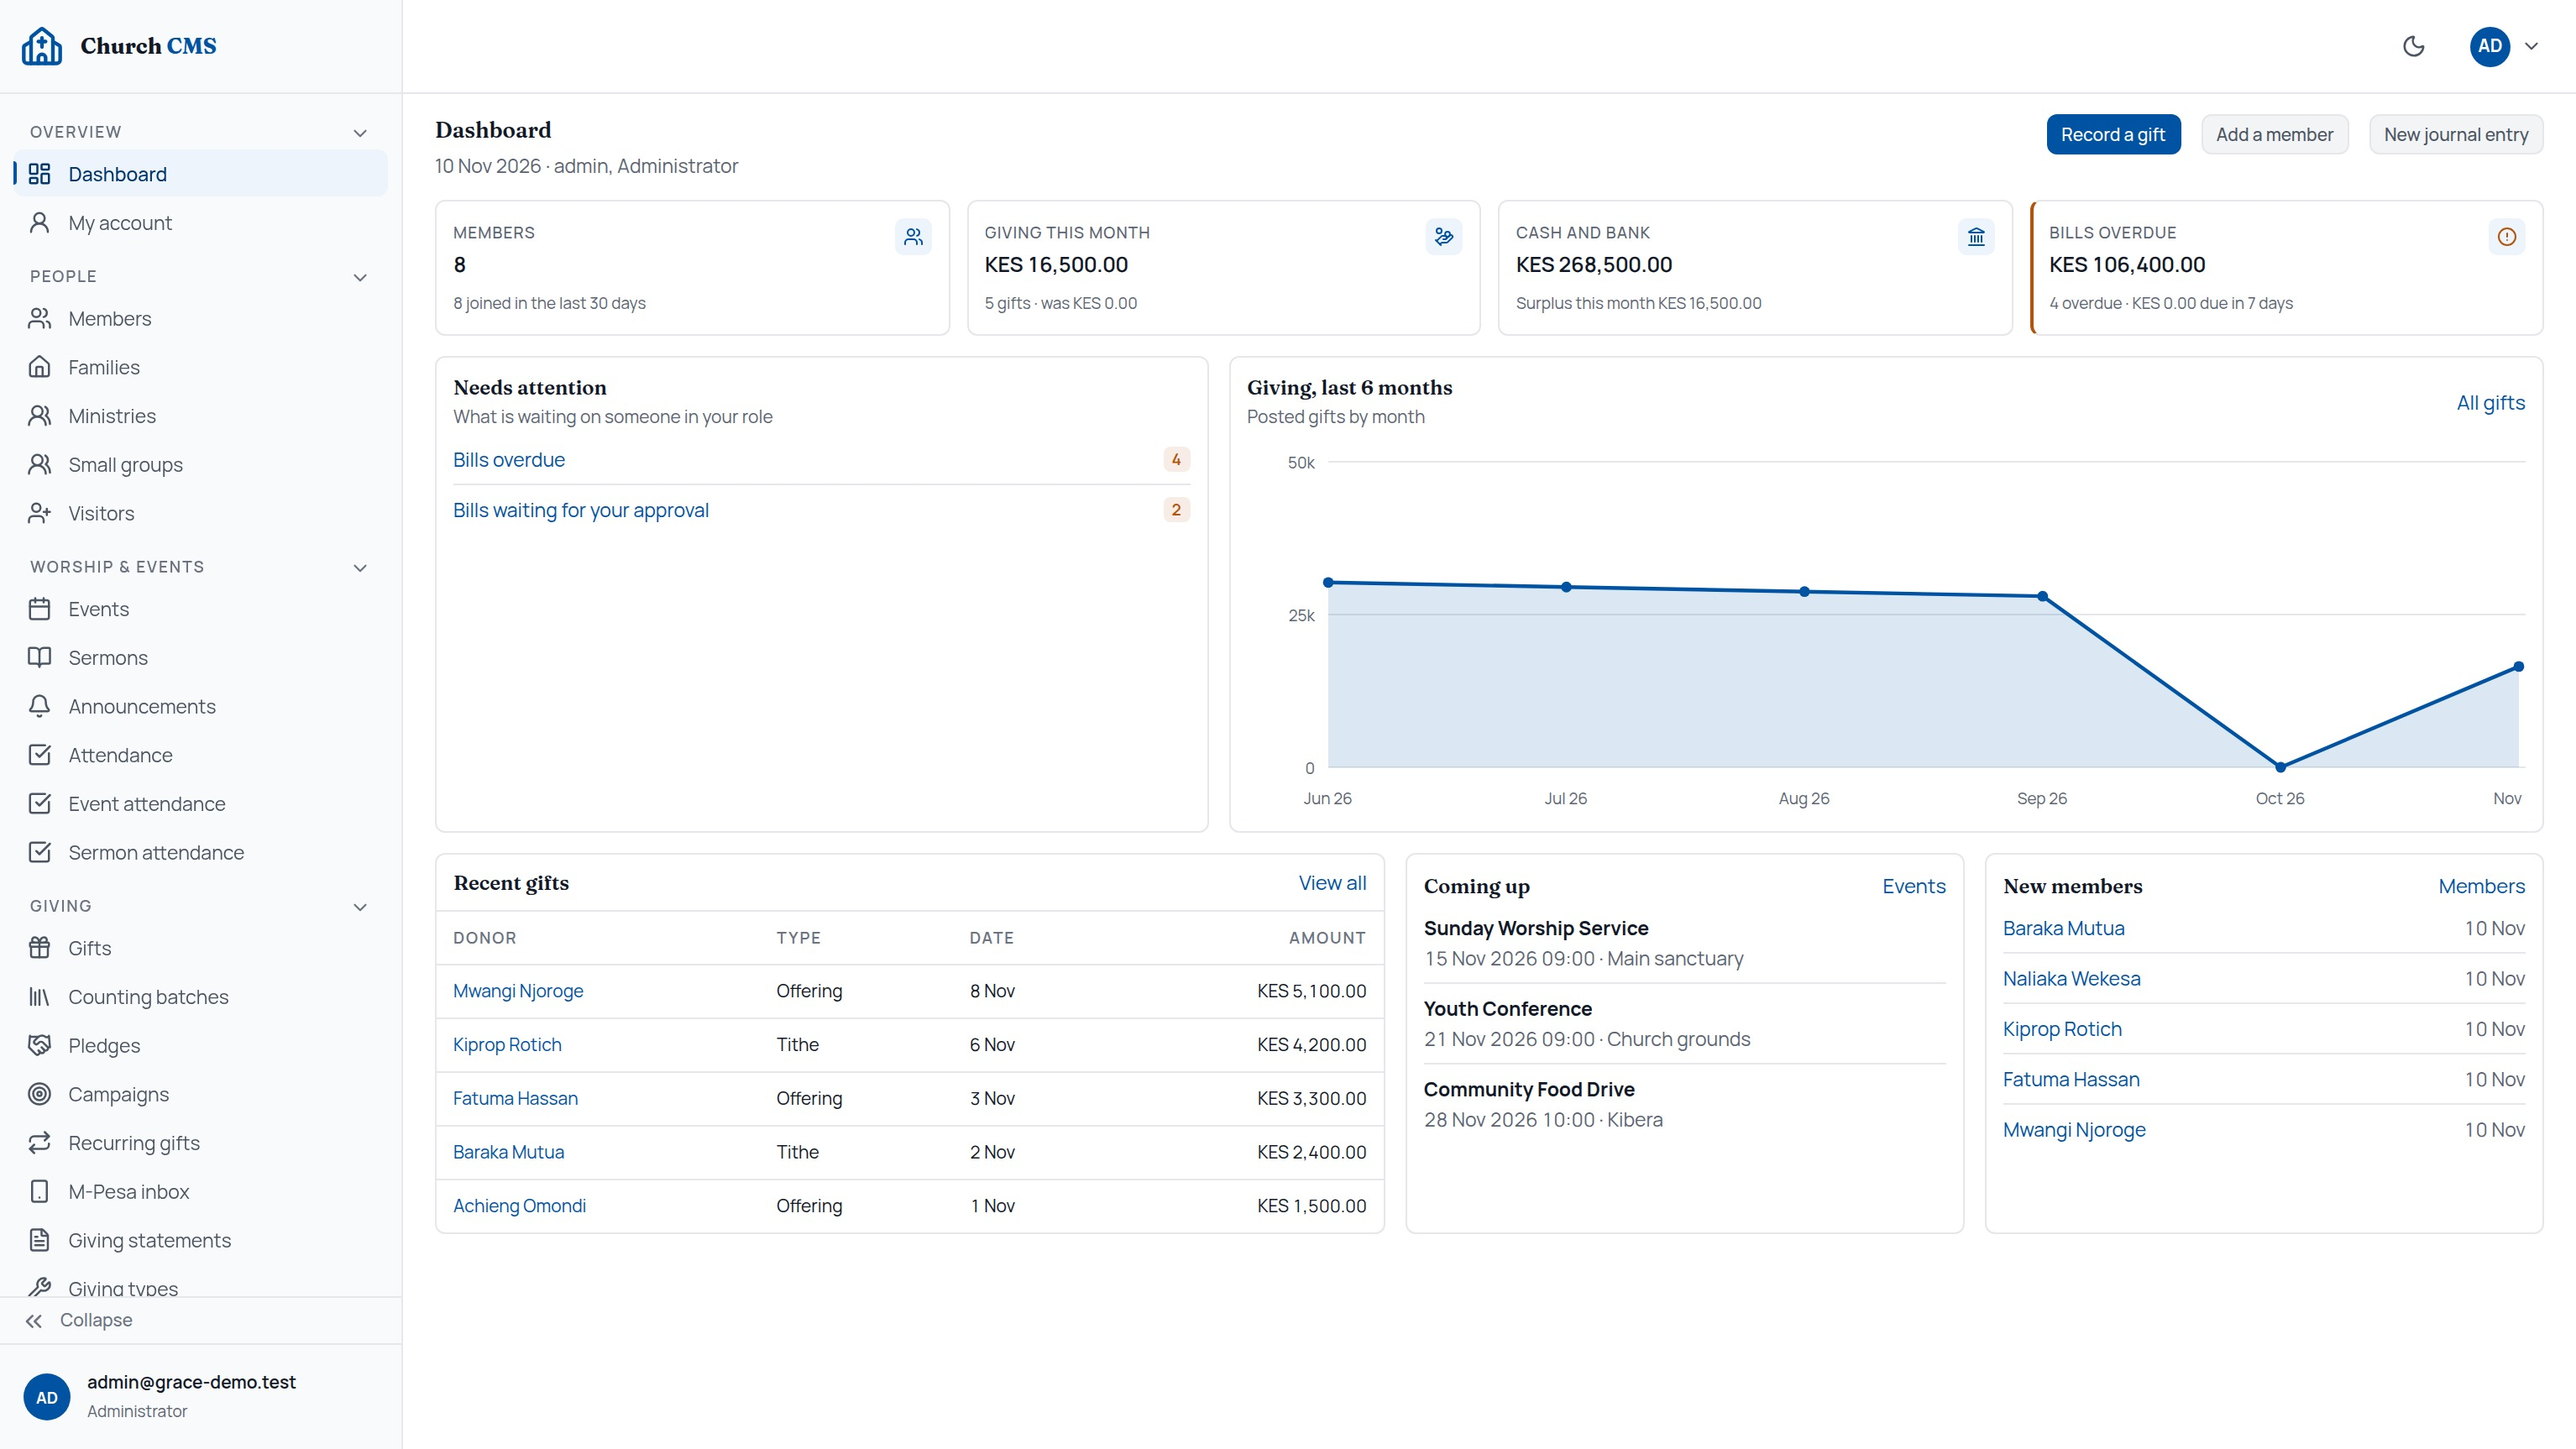
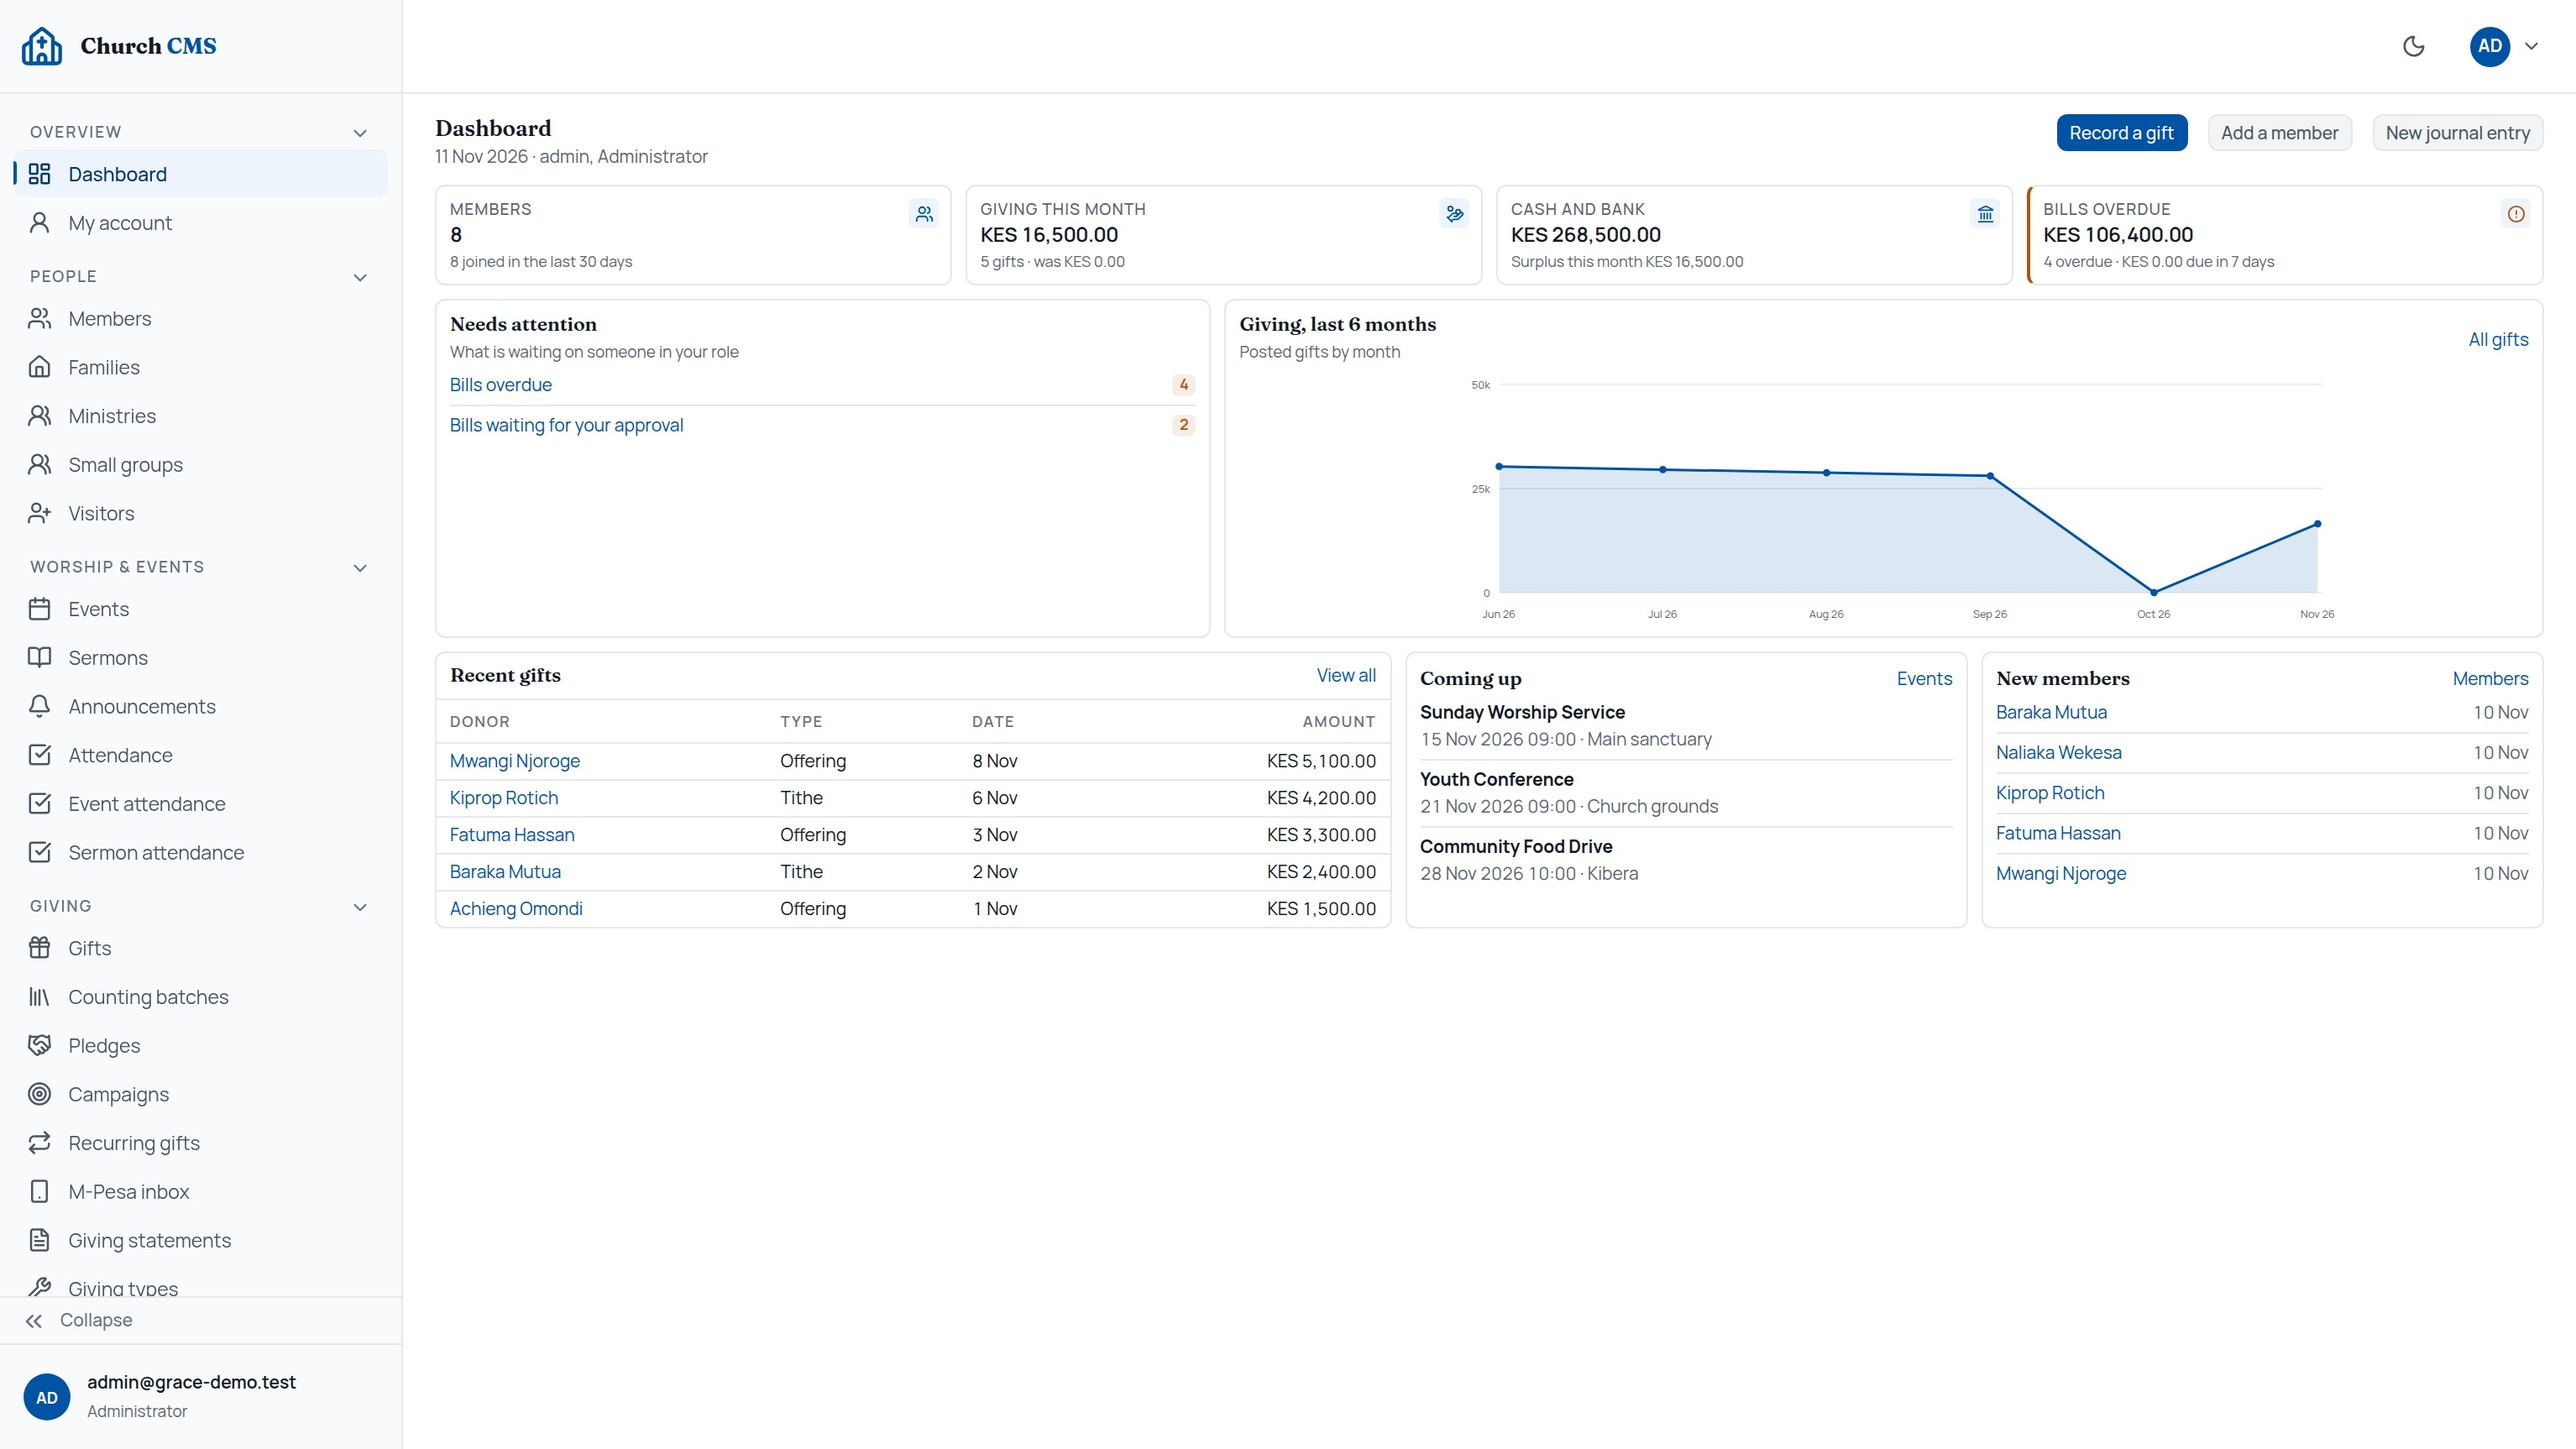
CMS dashboard: compact stat cards, tables, lists and spacing (dashboard only); refreshed dashboard screenshots

diff --git a/projects/cms/cms_frontend/src/ui/ui.css b/projects/cms/cms_frontend/src/ui/ui.css
@@ -374,3 +374,32 @@ textarea.ui-input { resize: vertical; height: auto; min-height: 60px; padding: 6
 .login-card { width: 100%; }
 .login-title { font-family: var(--ui-font-head); font-size: var(--fs-lg); font-weight: 600; margin: 0 0 3px; color: var(--c-ink); }
 .login-sub { margin: 0 0 12px; color: var(--ui-muted); font-size: var(--fs-sm); }
+
+/* ---- dashboard only: tighter than the shared kit, at or below SmartRE's dashboard values ---- */
+.ui-page.dash-page { gap: 8px; }
+.dash-page .ui-page-title { font-size: var(--fs-lg); line-height: 16px; }
+.dash-page .ui-page-sub { margin-top: 1px; font-size: var(--fs-xs); }
+.dash-page .ui-actions .ui-btn { height: 22px; padding: 0 7px; font-size: var(--fs-xs); }
+.dash-page .dash-tiles, .dash-page .dash-two, .dash-page .dash-three { gap: 8px; }
+.dash-page .ui-tile { padding: 7px 8px; }
+.dash-page .ui-tile-label { font-size: var(--fs-2xs); line-height: 13px; margin-bottom: 1px; padding-right: 24px; }
+.dash-page .ui-tile-value { font-size: 12px; line-height: 16px; }
+.dash-page .ui-tile-foot { margin-top: 2px; font-size: 9px; line-height: 12px; }
+.dash-page .ui-tile-icon { top: 7px; right: 7px; width: 18px; height: 18px; border-radius: 4px; }
+.dash-page .ui-tile-icon svg { width: 11px; height: 11px; }
+.dash-page .ui-card { padding: 7px 8px; }
+.dash-page .ui-card.is-flush { padding: 0; }
+.dash-page .ui-card-head { margin-bottom: 4px; }
+.dash-page .ui-card.is-flush > .ui-card-head { padding: 5px 8px; margin-bottom: 0; }
+.dash-page .ui-card-title { font-size: var(--fs-sm); line-height: 15px; }
+.dash-page .ui-card-sub { font-size: var(--fs-2xs); margin-top: 0; }
+.dash-page .ui-card-head a { font-size: var(--fs-xs); }
+.dash-page .ui-table th { padding: 4px 8px; font-size: 9px; }
+.dash-page .ui-table td { padding: 3px 8px; font-size: var(--fs-xs); line-height: 15px; }
+.dash-page .dash-list li { padding: 4px 0; font-size: var(--fs-xs); line-height: 15px; }
+.dash-page .dash-list li:first-child { padding-top: 0; }
+.dash-page .dash-list li:last-child { padding-bottom: 0; }
+.dash-page .dash-muted { font-size: var(--fs-xs); }
+.dash-page .ui-chart { max-height: 150px; }
+.dash-page .ui-badge { font-size: 9px; padding: 0 4px; }
+@media (max-width: 720px) { .dash-page .ui-actions .ui-btn { height: 32px; } }

diff --git a/projects/cms/cms_frontend/src/pages/dashboard/DashboardPage.tsx b/projects/cms/cms_frontend/src/pages/dashboard/DashboardPage.tsx
@@ -25,7 +25,7 @@ export default function DashboardPage() {
   const members = people?.members;
 
   return (
-    <div className="ui-page ui-stack">
+    <div className="ui-page ui-stack dash-page">
       <PageHeader
         title="Dashboard"
         subtitle={`${formatDate(data.asOf)} · ${name ? `${name}, ` : ''}${roleLabel}`}
